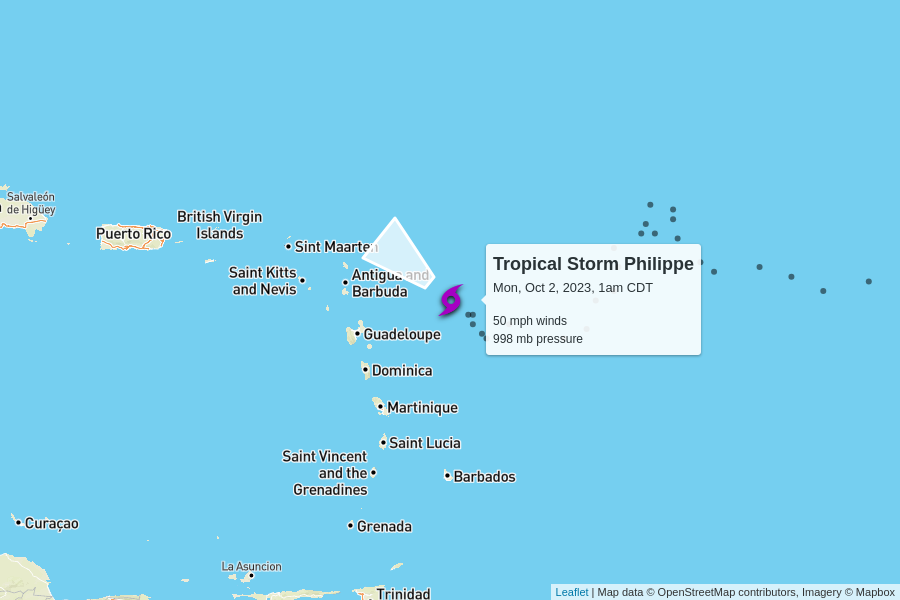
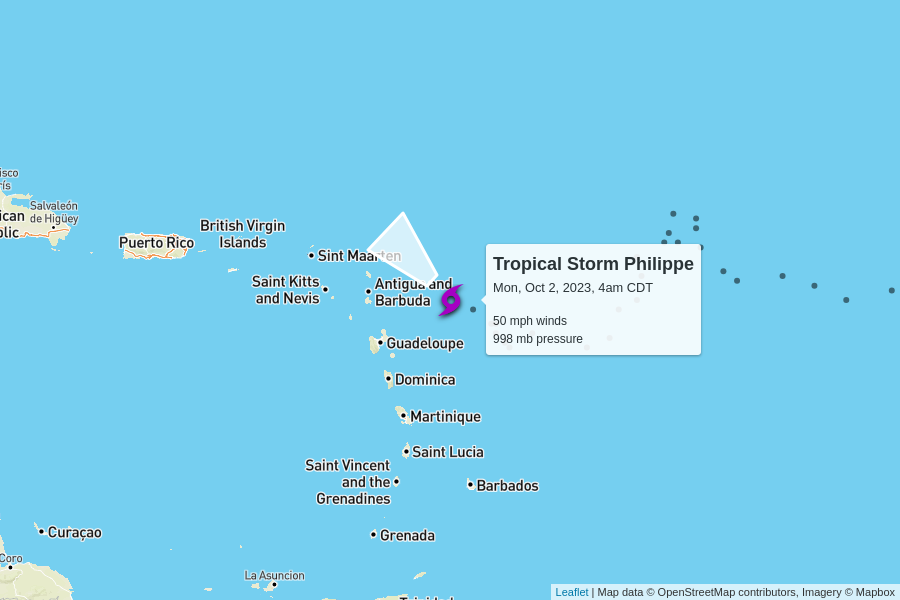
automatic update

diff --git a/docs/index.html b/docs/index.html
@@ -102,7 +102,7 @@
         <td colspan="6" class="storm category-0" >
           <h2>
             Tropical Storm Philippe
-            <p class="updated">last updated <span data-time>2023-10-02T06:00:00.000Z</span></p>
+            <p class="updated">last updated <span data-time>2023-10-02T09:00:00.000Z</span></p>
           </h2>
         </td>
       </tr>
@@ -120,9 +120,9 @@
         <td>50 mph<br>0 mph since last update</td>
         <td>998 mb<br>0 mb since last update</td>
         <td>
-          6 mph to the northwest
+          7 mph to the northwest
           <br/>
-          <span style="display: inline-block; font-size: 1.5em; transform: rotate(310deg);">↑</span>
+          <span style="display: inline-block; font-size: 1.5em; transform: rotate(315deg);">↑</span>
         </td>
         <td><a href="https://raw.githubusercontent.com/mgwalker/atlantic-hurricanes/main/data/csv/AL172023.csv">AL172023.csv</a></td>
         <td><a href="https://www.nhc.noaa.gov/archive/2023/PHILIPPE.shtml?">NHC advisories</a></td>
